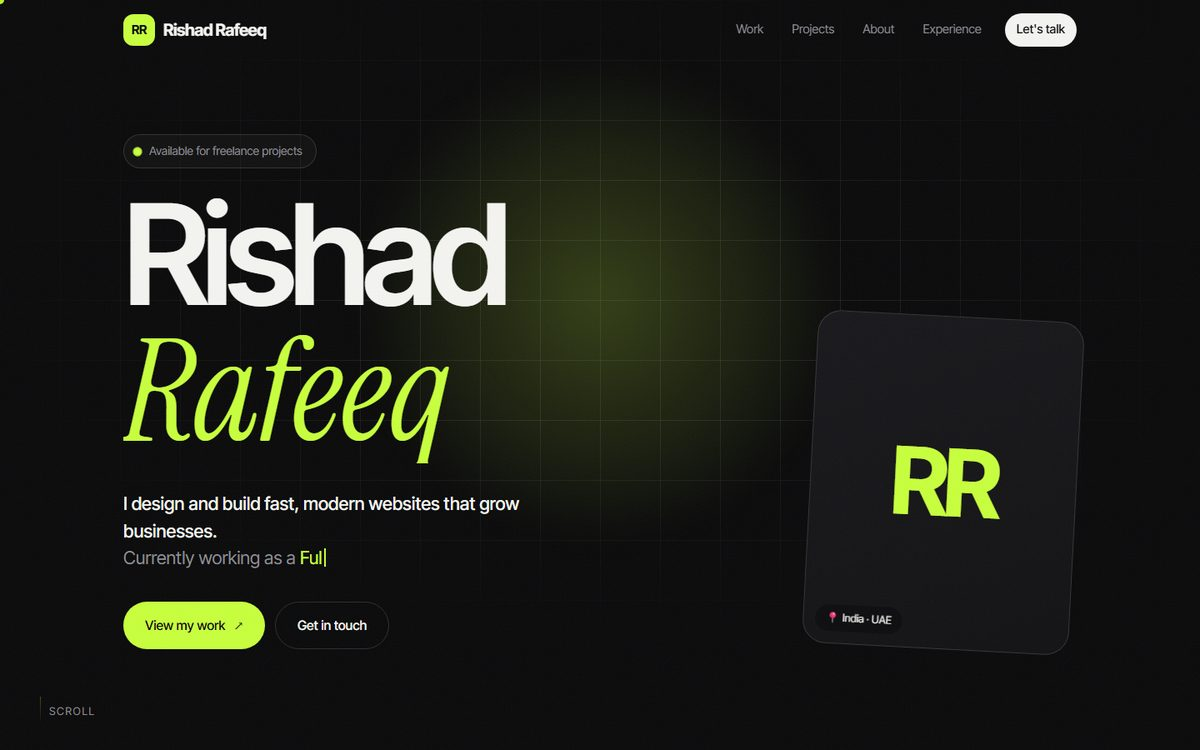
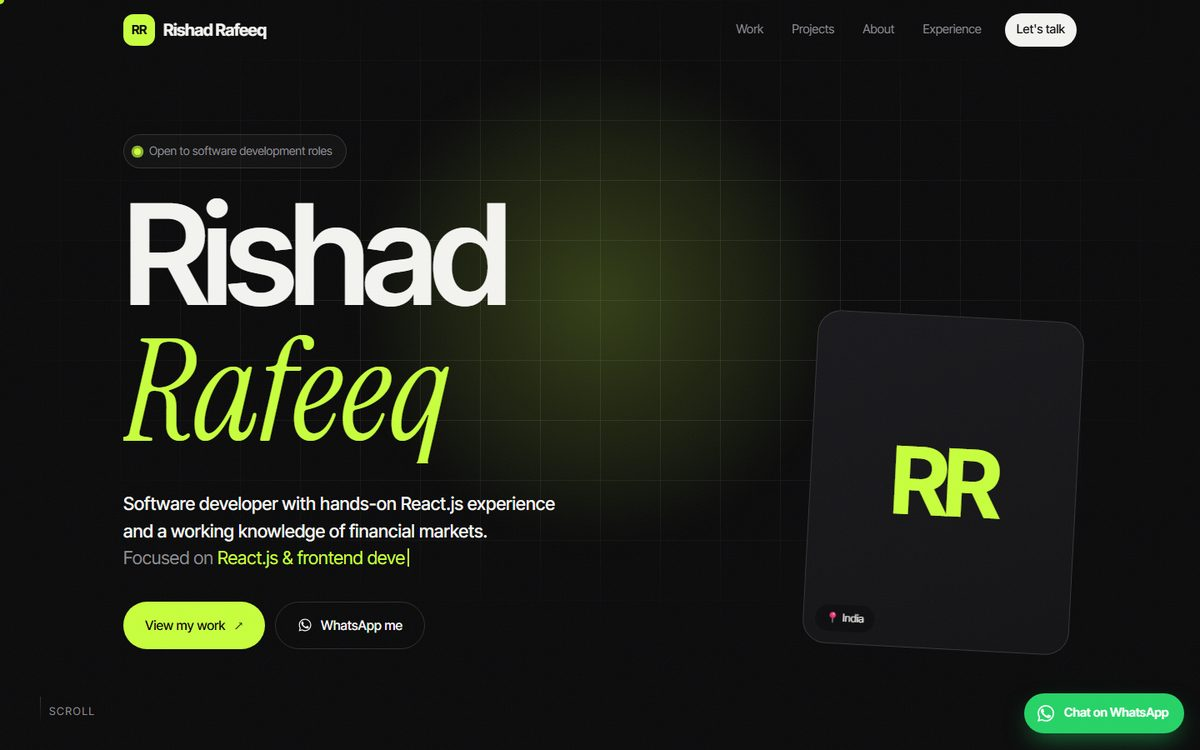
Accurate profile, grouped skills and WhatsApp contact
- Correct experience: UNICO Software Developer Intern (Jul-Dec 2025);
  leadership & operations at VFUTURES and Enroute UAE without an
  invented title; no founder or current-employment claims
- Skills grouped: technical, financial-market knowledge (with an
  honesty note), leadership & operations
- WhatsApp: hero button, contact button, floating chat button
- Hero prefix configurable (was 'Currently working as')
- Admin: skill-group editor, hero prefix field, WhatsApp toggle
- Refreshed README and screenshots

diff --git a/js/main.js b/js/main.js
@@ -11,8 +11,22 @@
 
   const ICONS = {
     instagram: '<svg viewBox="0 0 24 24" fill="none" stroke="currentColor" stroke-width="1.6"><rect x="3" y="3" width="18" height="18" rx="5"/><circle cx="12" cy="12" r="4"/><circle cx="17.5" cy="6.5" r="1" fill="currentColor"/></svg>',
+    whatsapp: '<svg class="wa-ico" viewBox="0 0 24 24" fill="currentColor" aria-hidden="true"><path d="M17.47 14.38c-.3-.15-1.76-.87-2.03-.97-.27-.1-.47-.15-.67.15-.2.3-.77.97-.94 1.17-.17.2-.35.22-.64.07-.3-.15-1.26-.46-2.4-1.48-.89-.79-1.49-1.77-1.66-2.07-.17-.3-.02-.46.13-.6.13-.13.3-.35.45-.52.15-.17.2-.3.3-.5.1-.2.05-.37-.02-.52-.08-.15-.67-1.61-.92-2.2-.24-.58-.49-.5-.67-.51h-.57c-.2 0-.52.07-.79.37-.27.3-1.04 1.02-1.04 2.48s1.07 2.88 1.21 3.08c.15.2 2.1 3.2 5.08 4.49.71.31 1.26.49 1.69.63.71.23 1.36.2 1.87.12.57-.08 1.76-.72 2-1.41.25-.7.25-1.29.17-1.41-.07-.13-.27-.2-.57-.35Z"/><path d="M12.04 2C6.58 2 2.13 6.45 2.13 11.91c0 1.75.46 3.45 1.32 4.95L2.05 22l5.25-1.38a9.9 9.9 0 0 0 4.74 1.21h.01c5.46 0 9.91-4.45 9.91-9.91 0-2.65-1.03-5.14-2.9-7.01A9.83 9.83 0 0 0 12.04 2Zm0 18.15h-.01a8.2 8.2 0 0 1-4.19-1.15l-.3-.18-3.12.82.83-3.04-.2-.31a8.22 8.22 0 0 1-1.26-4.38c0-4.54 3.7-8.24 8.25-8.24 2.2 0 4.27.86 5.83 2.42a8.18 8.18 0 0 1 2.41 5.83c0 4.54-3.7 8.24-8.24 8.24Z"/></svg>',
     youtube: '<svg viewBox="0 0 24 24" fill="currentColor"><path d="M23 7.2a3 3 0 0 0-2.1-2.1C19 4.6 12 4.6 12 4.6s-7 0-8.9.5A3 3 0 0 0 1 7.2 31 31 0 0 0 .5 12a31 31 0 0 0 .5 4.8 3 3 0 0 0 2.1 2.1c1.9.5 8.9.5 8.9.5s7 0 8.9-.5a3 3 0 0 0 2.1-2.1 31 31 0 0 0 .5-4.8 31 31 0 0 0-.5-4.8ZM9.7 15.1V8.9L15.5 12l-5.8 3.1Z"/></svg>',
   };
+
+  // Skill groups (new format), with fallback for the old flat "skills" list.
+  function skillGroups(c) {
+    if (Array.isArray(c.skillGroups) && c.skillGroups.length) return c.skillGroups.filter((g) => g.title || g.items?.length);
+    if (Array.isArray(c.skills) && c.skills.length) return [{ title: "Skills", note: "", items: c.skills.map((k) => k.name) }];
+    return [];
+  }
+  // Multi-line text -> bullet list; single line -> paragraph.
+  function lines(text) {
+    const ls = String(text || "").split("\n").map((l) => l.trim()).filter(Boolean);
+    if (ls.length < 2) return `<p>${esc(ls[0] || "")}</p>`;
+    return `<ul class="bullets">${ls.map((l) => `<li>${esc(l)}</li>`).join("")}</ul>`;
+  }
 
   async function loadContent() {
     const params = new URLSearchParams(location.search);
@@ -55,7 +69,8 @@
     $("#aboutPhoto").innerHTML = photo(p.aboutPhoto || p.photo, p.name);
 
     // marquee
-    const words = [...new Set([...(c.skills || []).map((k) => k.name), ...(c.projects || []).flatMap((x) => x.tags || [])])].slice(0, 14);
+    const groups = skillGroups(c);
+    const words = [...new Set([...groups.flatMap((g) => g.items || []), ...(c.projects || []).flatMap((x) => x.tags || [])])].slice(0, 16);
     const mq = words.map((w) => `<span>${esc(w)}</span>`).join("");
     $("#marquee").innerHTML = mq; $("#marquee2").innerHTML = mq;
 
@@ -134,10 +149,15 @@
     $("#stats").style.display = c.stats?.length ? "" : "none";
 
     // skills
-    $("#skills").style.display = s.showSkills === false || !c.skills?.length ? "none" : "";
-    $("#skillList").innerHTML = (c.skills || []).map((k) => `
-      <div class="skill reveal"><div class="skill-top"><span>${esc(k.name)}</span><span>${Number(k.level) || 0}%</span></div>
-      <div class="skill-bar"><i data-w="${Math.min(100, Number(k.level) || 0)}"></i></div></div>`).join("");
+    $("#skills").style.display = s.showSkills === false || !groups.length ? "none" : "";
+    $("#skillList").className = "skill-groups";
+    $("#skillList").innerHTML = groups.map((g, i) => `
+      <div class="skill-group reveal">
+        <span class="sg-num">${String(i + 1).padStart(2, "0")}</span>
+        <h3>${esc(g.title)}</h3>
+        ${g.note ? `<p class="sg-note">${esc(g.note)}</p>` : ""}
+        <ul>${(g.items || []).map((it) => `<li>${esc(it)}</li>`).join("")}</ul>
+      </div>`).join("");
 
     // experience
     const showExp = s.showExperience !== false && c.experience?.length;
@@ -145,7 +165,7 @@
     $$('[data-section="experience"]').forEach((a) => (a.style.display = showExp ? "" : "none"));
     $("#expList").innerHTML = (c.experience || []).map((x) => `
       <div class="exp-row reveal"><span class="period">${esc(x.period)}</span>
-      <h4>${esc(x.title)}<small>${esc(x.org)}</small></h4><p>${esc(x.description)}</p></div>`).join("");
+      <h4>${esc(x.title)}<small>${esc(x.org)}</small></h4>${lines(x.description)}</div>`).join("");
 
     // gallery
     const gal = (c.gallery || []).filter((g) => g.src);
@@ -154,16 +174,28 @@
       <figure class="reveal"><img src="${esc(safeUrl(g.src))}" alt="${esc(g.caption || "")}" loading="lazy">${g.caption ? `<figcaption>${esc(g.caption)}</figcaption>` : ""}</figure>`).join("");
 
     // contact
+    const waNum = String(p.whatsapp || "").replace(/\D/g, "");
+    const wa = waNum ? `https://wa.me/${waNum}` : "";
     const li = (c.socials || []).find((x) => /linkedin/i.test(x.label));
-    const primary = p.email ? `mailto:${p.email}` : p.whatsapp ? `https://wa.me/${String(p.whatsapp).replace(/\D/g, "")}` : li?.url || "#";
-    $("#contactBtn").href = safeUrl(primary);
-    if (!primary.startsWith("mailto")) $("#contactBtn").target = "_blank";
+    const primary = wa || (p.email ? `mailto:${p.email}` : li?.url || "#");
+    const cb = $("#contactBtn");
+    cb.href = safeUrl(primary);
+    if (!primary.startsWith("mailto")) { cb.target = "_blank"; cb.rel = "noopener"; }
+    cb.innerHTML = wa ? `${ICONS.whatsapp}<span>Chat on<br>WhatsApp</span>` : "Start a<br>project ↗";
+    if (wa) {
+      const hw = $("#heroWa");
+      hw.href = wa; hw.target = "_blank"; hw.rel = "noopener";
+      hw.innerHTML = `${ICONS.whatsapp} WhatsApp me`;
+      const fl = $("#waFloat");
+      fl.href = wa; fl.innerHTML = ICONS.whatsapp + "<span>Chat on WhatsApp</span>";
+      fl.hidden = s.showWhatsappButton === false;
+    }
     $("#contactActions").innerHTML = [
+      wa && `<a class="btn btn-ghost" href="${esc(wa)}" target="_blank" rel="noopener">${ICONS.whatsapp} ${esc(p.whatsapp)}</a>`,
       p.email && `<a class="btn btn-ghost" href="mailto:${esc(p.email)}">${esc(p.email)}</a>`,
-      p.whatsapp && `<a class="btn btn-ghost" href="https://wa.me/${esc(String(p.whatsapp).replace(/\D/g, ""))}" target="_blank" rel="noopener">WhatsApp</a>`,
       p.resume && `<a class="btn btn-ghost" href="${esc(safeUrl(p.resume))}" target="_blank" rel="noopener">Download résumé</a>`,
     ].filter(Boolean).join("");
-    $("#socials").innerHTML = (c.socials || []).filter((x) => x.url).map((x) =>
+    $("#socials").innerHTML = (c.socials || []).filter((x) => x.url && !(wa && /wa\.me|whatsapp/i.test(x.url))).map((x) =>
       `<a href="${esc(safeUrl(x.url))}" target="_blank" rel="noopener">${esc(x.label)} ↗</a>`).join("");
 
     $("#year").textContent = new Date().getFullYear();

diff --git a/admin/admin.js b/admin/admin.js
@@ -46,9 +46,14 @@
 
   function normalize(c) {
     c = c && typeof c === "object" ? c : {};
-    c.profile = Object.assign({ name: "", initials: "", roles: [], headline: "", about: "", location: "", available: true, availableText: "", photo: "", aboutPhoto: "", email: "", whatsapp: "", resume: "" }, c.profile);
+    c.profile = Object.assign({ name: "", initials: "", rolesPrefix: "Focused on", roles: [], headline: "", about: "", location: "", available: true, availableText: "", photo: "", aboutPhoto: "", email: "", whatsapp: "", resume: "" }, c.profile);
     ["stats", "socials", "skills", "projects", "experience", "gallery"].forEach((k) => { if (!Array.isArray(c[k])) c[k] = []; });
-    c.settings = Object.assign({ accent: "#c8ff3d", seoTitle: "", seoDescription: "", showSkills: true, showExperience: true, showGallery: true }, c.settings);
+    c.settings = Object.assign({ accent: "#c8ff3d", seoTitle: "", seoDescription: "", showSkills: true, showExperience: true, showGallery: true, showWhatsappButton: true }, c.settings);
+    if (!Array.isArray(c.skillGroups)) {
+      c.skillGroups = c.skills.length ? [{ title: "Skills", note: "", items: c.skills.map((k) => k.name).filter(Boolean) }] : [];
+    }
+    delete c.skills; // replaced by skillGroups
+    c.skillGroups.forEach((g) => { if (!Array.isArray(g.items)) g.items = []; });
     c.projects.forEach((p) => { if (!p.id) p.id = slug(p.title) + "-" + Math.random().toString(36).slice(2, 6); if (!Array.isArray(p.tags)) p.tags = []; });
     return c;
   }
@@ -152,12 +157,6 @@
         <input data-k="suffix" value="${esc(x.suffix)}" placeholder="K+">
         <input data-k="label" value="${esc(x.label)}" placeholder="Label, e.g. Happy clients">`,
     },
-    skills: {
-      blank: () => ({ name: "", level: 75 }),
-      row: (x) => `<input data-k="name" value="${esc(x.name)}" placeholder="Skill name">
-        <input type="range" min="0" max="100" data-k="level" value="${esc(x.level)}">
-        <span class="num">${esc(x.level)}%</span>`,
-    },
     socials: {
       blank: () => ({ label: "", url: "" }),
       row: (x) => `<input data-k="label" value="${esc(x.label)}" placeholder="LinkedIn">
@@ -222,6 +221,42 @@
     const rows = $$(`[data-list="${key}"] .row`);
     rows.at(-1)?.querySelector("input, textarea")?.focus();
   }));
+
+  /* ---------------- skill groups ---------------- */
+  function renderGroups() {
+    const gs = state.c.skillGroups;
+    $("#groupList").innerHTML = gs.length ? gs.map((g, i) => `
+      <div class="card group-card" data-i="${i}">
+        <div class="card-head">
+          <input data-k="title" value="${esc(g.title)}" placeholder="Group title, e.g. Technical skills">
+          <div class="acts">
+            <button type="button" data-act="up" title="Move up">↑</button>
+            <button type="button" data-act="down" title="Move down">↓</button>
+            <button type="button" data-act="del" class="del" title="Delete group">✕</button>
+          </div>
+        </div>
+        <div class="form-grid">
+          <label>Note <small>optional, shown under the title</small><input data-k="note" value="${esc(g.note)}" placeholder="e.g. Relevant knowledge — not professional experience"></label>
+          <label>Skills <small>one per line</small><textarea data-k="items" rows="${Math.max(4, g.items.length + 1)}">${esc(g.items.join("\n"))}</textarea></label>
+        </div>
+      </div>`).join("") : `<div class="empty">No skill groups yet.</div>`;
+  }
+  $("#groupList").addEventListener("input", (e) => {
+    const card = e.target.closest("[data-i]"), k = e.target.dataset.k;
+    if (!card || !k) return;
+    const g = state.c.skillGroups[+card.dataset.i];
+    g[k] = k === "items" ? e.target.value.split("\n").map((x) => x.trim()).filter(Boolean) : e.target.value;
+    changed();
+  });
+  $("#groupList").addEventListener("click", (e) => {
+    const b = e.target.closest("[data-act]"); if (!b) return;
+    moveOrDelete(state.c.skillGroups, +b.closest("[data-i]").dataset.i, b.dataset.act, renderGroups);
+  });
+  $("#addGroup").onclick = () => {
+    state.c.skillGroups.push({ title: "", note: "", items: [] });
+    renderGroups(); changed();
+    $$("#groupList .group-card").at(-1)?.querySelector("input")?.focus();
+  };
 
   /* ---------------- projects ---------------- */
   function renderProjects() {
@@ -363,7 +398,7 @@
     const k = [
       [c.projects.length, "Projects", "projects"],
       [c.projects.filter((p) => p.featured).length, "Featured case studies", "projects"],
-      [c.skills.length, "Skills", "skills"],
+      [c.skillGroups.reduce((n, g) => n + g.items.length, 0), "Skills listed", "skills"],
       [c.gallery.length, "Gallery photos", "gallery"],
     ];
     $("#kpis").innerHTML = k.map(([n, l, t]) => `<div class="kpi" data-go="${t}"><b>${n}</b><span>${l}</span></div>`).join("");
@@ -541,7 +576,7 @@
     bindFields();
     $$("main [data-image]").forEach(renderImageField);
     Object.keys(LISTS).forEach(renderList);
-    renderProjects(); renderGallery(); renderSwatches(); renderDashboard(); fillGhForm();
+    renderProjects(); renderGallery(); renderGroups(); renderSwatches(); renderDashboard(); fillGhForm();
   }
 
   async function init() {

diff --git a/css/style.css b/css/style.css
@@ -265,6 +265,39 @@ body.loaded .hero h1 .line:nth-child(2) > span { transition-delay: .65s; }
 .skill-bar { height: 3px; background: var(--surface-2); border-radius: 3px; overflow: hidden; }
 .skill-bar i { display: block; height: 100%; width: 0; background: var(--accent); border-radius: 3px; transition: width 1.6s var(--ease); }
 
+/* skill groups */
+.skill-groups { display: grid; grid-template-columns: repeat(3, 1fr); gap: 20px; }
+.skill-group { position: relative; background: var(--surface); border: 1px solid var(--line); border-radius: var(--radius); padding: 28px; transition: border-color .3s, transform .5s var(--ease); }
+.skill-group:hover { border-color: var(--line-2); transform: translateY(-4px); }
+.sg-num { font-family: var(--serif); font-style: italic; color: var(--accent); font-size: 1.2rem; }
+.skill-group h3 { font-size: 1.45rem; letter-spacing: -.03em; font-weight: 600; margin: 6px 0 8px; line-height: 1.15; }
+.sg-note { color: var(--muted); font-size: .88rem; margin-bottom: 4px; }
+.skill-group ul { list-style: none; display: flex; flex-wrap: wrap; gap: 8px; margin-top: 18px; }
+.skill-group li { font-size: .88rem; padding: 7px 14px; border-radius: 999px; border: 1px solid var(--line-2); background: var(--bg); transition: border-color .3s, color .3s; }
+.skill-group li:hover { border-color: var(--accent); color: var(--accent); }
+
+/* bullet lists (experience) */
+.bullets { list-style: none; color: var(--muted); display: grid; gap: 6px; }
+.bullets li { position: relative; padding-left: 18px; }
+.bullets li::before { content: ""; position: absolute; left: 0; top: .65em; width: 6px; height: 6px; border-radius: 50%; background: var(--accent); }
+
+/* WhatsApp */
+.wa-ico { width: 1.15em; height: 1.15em; flex-shrink: 0; }
+.big-btn { display: flex; flex-direction: column; align-items: center; justify-content: center; gap: 8px; }
+.big-btn .wa-ico { width: 34px; height: 34px; display: block; }
+.big-btn span { display: block; }
+.wa-float {
+  position: fixed; right: 20px; bottom: 20px; z-index: 80; display: flex; align-items: center; gap: 10px;
+  padding: 12px 18px 12px 14px; border-radius: 999px; background: #25d366; color: #fff; font-weight: 600; font-size: .92rem;
+  box-shadow: 0 12px 30px -8px rgba(37, 211, 102, .55); transition: transform .4s var(--ease), box-shadow .3s;
+  animation: waIn .8s var(--ease) 1.6s both;
+}
+.wa-float:hover { transform: translateY(-3px); box-shadow: 0 16px 36px -8px rgba(37, 211, 102, .7); }
+.wa-float .wa-ico { width: 24px; height: 24px; }
+.wa-float[hidden] { display: none; }
+@keyframes waIn { from { opacity: 0; transform: translateY(20px) scale(.9); } }
+@media (max-width: 820px) { .wa-float { padding: 14px; } .wa-float span { display: none; } }
+
 /* ---------- experience ---------- */
 .exp { border-top: 1px solid var(--line); }
 .exp-row {
@@ -318,6 +351,10 @@ footer a:hover { color: var(--accent); }
 .preview-banner { position: fixed; bottom: 16px; left: 50%; translate: -50% 0; z-index: 170; background: var(--accent); color: var(--accent-ink); padding: 10px 18px; border-radius: 999px; font-size: .88rem; font-weight: 600; box-shadow: 0 10px 30px rgba(0,0,0,.5); }
 
 /* ---------- responsive ---------- */
+@media (max-width: 1024px) and (min-width: 821px) {
+  .skill-groups { grid-template-columns: 1fr 1fr; }
+  .skill-group:last-child { grid-column: 1 / -1; }
+}
 @media (max-width: 1024px) {
   .case, .case:nth-child(even) { grid-template-columns: 1fr; }
   .case:nth-child(even) .case-media { order: 0; }
@@ -340,6 +377,7 @@ footer a:hover { color: var(--accent); }
   .about-grid { grid-template-columns: 1fr; }
   .about-photo { position: relative; top: 0; max-width: 360px; }
   .skills { grid-template-columns: 1fr; }
+  .skill-groups { grid-template-columns: 1fr; }
   .scroll-cue { display: none; }
 }
 @media (max-width: 560px) {

diff --git a/index.html b/index.html
@@ -3,9 +3,9 @@
 <head>
   <meta charset="utf-8">
   <meta name="viewport" content="width=device-width, initial-scale=1">
-  <title>Rishad Rafeeq — Full-Stack Web Developer</title>
-  <meta name="description" content="Portfolio of Rishad Rafeeq: company websites, web apps and e-commerce projects.">
-  <meta property="og:title" content="Rishad Rafeeq — Full-Stack Web Developer">
+  <title>Rishad Rafeeq — Software Developer (React.js)</title>
+  <meta name="description" content="Portfolio of Rishad Rafeeq: software developer with React.js experience, financial-markets knowledge and operations leadership.">
+  <meta property="og:title" content="Rishad Rafeeq — Software Developer (React.js)">
   <meta property="og:type" content="website">
   <meta property="og:image" content="images/projects/unico.jpg">
   <meta name="theme-color" content="#0a0a0b">
@@ -13,7 +13,7 @@
   <link rel="preconnect" href="https://fonts.googleapis.com">
   <link rel="preconnect" href="https://fonts.gstatic.com" crossorigin>
   <link href="https://fonts.googleapis.com/css2?family=Inter+Tight:wght@400;500;600;700&family=Instrument+Serif:ital@0;1&display=swap" rel="stylesheet">
-  <link rel="stylesheet" href="css/style.css?v=2">
+  <link rel="stylesheet" href="css/style.css?v=4">
 </head>
 <body>
   <div id="loader"><span><i data-initial-1>R</i><i data-initial-2>R</i></span></div>
@@ -43,11 +43,11 @@
           <span class="badge" id="availBadge"><span class="dot"></span><span data-bind="availableText">Available for freelance projects</span></span>
           <h1 id="heroName"><span class="line"><span>Rishad</span></span><span class="line"><span class="serif accent">Rafeeq</span></span></h1>
           <div class="hero-sub">
-            <p><strong data-bind="headline"></strong><br>Currently working as a <span class="role" id="role"></span></p>
+            <p><strong data-bind="headline"></strong><br><span data-bind="rolesPrefix">Focused on</span> <span class="role" id="role"></span></p>
           </div>
           <div class="hero-actions">
             <a href="#work" class="btn btn-primary">View my work <span class="arrow">↗</span></a>
-            <a href="#contact" class="btn btn-ghost">Get in touch</a>
+            <a href="#contact" class="btn btn-ghost wa-link" id="heroWa">Get in touch</a>
           </div>
         </div>
         <div class="hero-photo" id="heroPhoto"></div>
@@ -104,9 +104,9 @@
         <div class="sec-head">
           <div>
             <div class="eyebrow">Expertise</div>
-            <h2 class="sec-title split"><span class="line"><span>What I <span class="serif">do</span></span></span></h2>
+            <h2 class="sec-title split"><span class="line"><span>Skills &amp; <span class="serif">knowledge</span></span></span></h2>
           </div>
-          <p class="reveal">The tools and skills I use to ship real projects.</p>
+          <p class="reveal">Software development, financial-market knowledge and hands-on operations leadership.</p>
         </div>
         <div class="skills" id="skillList"></div>
       </div>
@@ -158,6 +158,7 @@
   </footer>
 
   <div class="lightbox" id="lightbox"><img alt=""></div>
-  <script src="js/main.js?v=2"></script>
+  <a class="wa-float" id="waFloat" href="#" target="_blank" rel="noopener" aria-label="Chat on WhatsApp" hidden></a>
+  <script src="js/main.js?v=3"></script>
 </body>
 </html>

diff --git a/admin/index.html b/admin/index.html
@@ -7,7 +7,7 @@
   <title>Portfolio Admin</title>
   <link rel="preconnect" href="https://fonts.googleapis.com">
   <link href="https://fonts.googleapis.com/css2?family=Inter:wght@400;500;600;700&display=swap" rel="stylesheet">
-  <link rel="stylesheet" href="admin.css?v=2">
+  <link rel="stylesheet" href="admin.css?v=3">
 </head>
 <body>
   <div class="app">
@@ -89,7 +89,8 @@
               <label>Full name<input data-path="profile.name"></label>
               <label>Initials (logo)<input data-path="profile.initials" maxlength="3"></label>
               <label class="full">Headline<input data-path="profile.headline"></label>
-              <label class="full">Roles <small>one per line — they type out in the hero</small><textarea data-path="profile.roles" data-type="lines" rows="3"></textarea></label>
+              <label class="full">Text before the typing roles <small>e.g. “Focused on”. Avoid “Currently working as” unless you are employed.</small><input data-path="profile.rolesPrefix"></label>
+              <label class="full">Roles / focus areas <small>one per line — they type out in the hero</small><textarea data-path="profile.roles" data-type="lines" rows="3"></textarea></label>
               <label class="full">About me<textarea data-path="profile.about" rows="6"></textarea></label>
               <label>Location<input data-path="profile.location"></label>
               <label class="toggle-row">Show "available" badge<input type="checkbox" data-path="profile.available"><span class="switch"></span></label>
@@ -125,8 +126,8 @@
 
         <!-- SKILLS -->
         <section data-panel="skills" class="panel">
-          <div class="panel-head"><div><h1>Skills</h1><p>Shown as animated bars.</p></div><button class="btn primary" data-add="skills">＋ Add skill</button></div>
-          <div class="card"><div class="rows" data-list="skills"></div></div>
+          <div class="panel-head"><div><h1>Skills &amp; knowledge</h1><p>Each group is shown as a card. Use the note to set expectations honestly (e.g. “basic understanding”).</p></div><button class="btn primary" id="addGroup">＋ Add group</button></div>
+          <div class="groups" id="groupList"></div>
         </section>
 
         <!-- EXPERIENCE -->
@@ -161,6 +162,7 @@
             <label class="toggle-row">Show Skills<input type="checkbox" data-path="settings.showSkills"><span class="switch"></span></label>
             <label class="toggle-row">Show Experience<input type="checkbox" data-path="settings.showExperience"><span class="switch"></span></label>
             <label class="toggle-row">Show Gallery<input type="checkbox" data-path="settings.showGallery"><span class="switch"></span></label>
+            <label class="toggle-row">Floating WhatsApp button <small>uses the number in Profile → Contact</small><input type="checkbox" data-path="settings.showWhatsappButton"><span class="switch"></span></label>
           </div>
           <div class="card">
             <h3>SEO (Google & link previews)</h3>
@@ -236,6 +238,6 @@
   </aside>
 
   <div class="toasts" id="toasts"></div>
-  <script src="admin.js?v=2"></script>
+  <script src="admin.js?v=3"></script>
 </body>
 </html>

diff --git a/admin/admin.css b/admin/admin.css
@@ -122,6 +122,17 @@ input[type=color] { width: 44px; height: 34px; border: 1px solid var(--line-2); 
 .row .num { font-variant-numeric: tabular-nums; color: var(--muted); text-align: right; }
 .empty { padding: 32px; text-align: center; color: var(--muted); border: 1px dashed var(--line-2); border-radius: 12px; }
 
+/* skill groups */
+.groups { display: flex; flex-direction: column; gap: 14px; }
+.group-card .card-head { gap: 10px; }
+.group-card .card-head input { font-weight: 600; font-size: 1rem; }
+.group-card .acts { display: flex; gap: 4px; flex-shrink: 0; }
+.group-card .acts button { width: 34px; height: 34px; border-radius: 8px; border: 1px solid var(--line-2); }
+.group-card .acts button:hover { border-color: var(--text); }
+.group-card .acts button.del:hover { border-color: var(--danger); color: var(--danger); }
+.group-card .form-grid { grid-template-columns: 1fr; }
+.toggle-row small { margin-left: 6px; }
+
 /* images */
 .img-field { display: flex; gap: 14px; align-items: center; }
 .img-field .thumb { width: 120px; aspect-ratio: 4 / 3; border-radius: 10px; border: 1px dashed var(--line-2); background: var(--bg) center / cover no-repeat; display: grid; place-items: center; color: var(--muted); font-size: .75rem; flex-shrink: 0; }

diff --git a/README.md b/README.md
@@ -1,6 +1,7 @@
 # Rishad Rafeeq — Developer Portfolio
 
 A fast, animated personal portfolio with a **built-in admin panel**, so I can add projects, photos and skills without touching code.
+It presents my software development work (React.js / frontend), my financial-markets knowledge, and my leadership & operations work at VFUTURES and Enroute UAE.
 Changes made in the admin panel are committed straight to this GitHub repo, and Vercel redeploys the site automatically.
 
 ![Portfolio home](docs/screenshots/home.jpg)
@@ -10,7 +11,9 @@ Changes made in the admin panel are committed straight to this GitHub repo, and 
 **Portfolio site**
 - Premium dark design with a single accent colour (changeable from the admin panel)
 - Featured **company case studies** in browser-style frames, plus a filterable project grid
-- Smooth animations: intro loader, line-by-line text reveals, scroll reveals, word-by-word "about" highlight, typing roles, animated counters and skill bars
+- Skills grouped into cards (technical, financial-market knowledge, leadership & operations), each with an optional honesty note
+- Direct WhatsApp contact: hero button, contact button and a floating chat button (`wa.me` link)
+- Smooth animations: intro loader, line-by-line text reveals, scroll reveals, word-by-word "about" highlight, typing focus areas, animated counters
 - Interactive touches: custom cursor, magnetic buttons, spotlight hover on cards, image lightbox
 - Fully responsive (desktop, tablet, mobile) and respects `prefers-reduced-motion`
 - SEO title/description, Open Graph tags, `robots.txt`
@@ -19,9 +22,9 @@ Changes made in the admin panel are committed straight to this GitHub repo, and 
 - Dashboard with counts and quick actions
 - **Projects:** add, edit, delete, reorder, mark as *featured*, search and filter, upload a screenshot
 - **Profile:** name, headline, typing roles, about text, photos, location, email, WhatsApp, résumé link, stats
-- **Skills, experience, social links:** add/edit/reorder/delete
+- **Skill groups, experience (multi-line bullets), social links:** add/edit/reorder/delete
 - **Gallery:** multi-photo upload (auto-resized in the browser) with captions
-- **Settings:** accent colour, show/hide sections, SEO
+- **Settings:** accent colour, show/hide sections, floating WhatsApp button, SEO
 - Changes auto-save in the browser as a draft, with **Preview** on the real design before publishing
 - **Publish** saves everything to GitHub as a single commit (content + images), then Vercel deploys
 - Backup: download/import `content.json`
